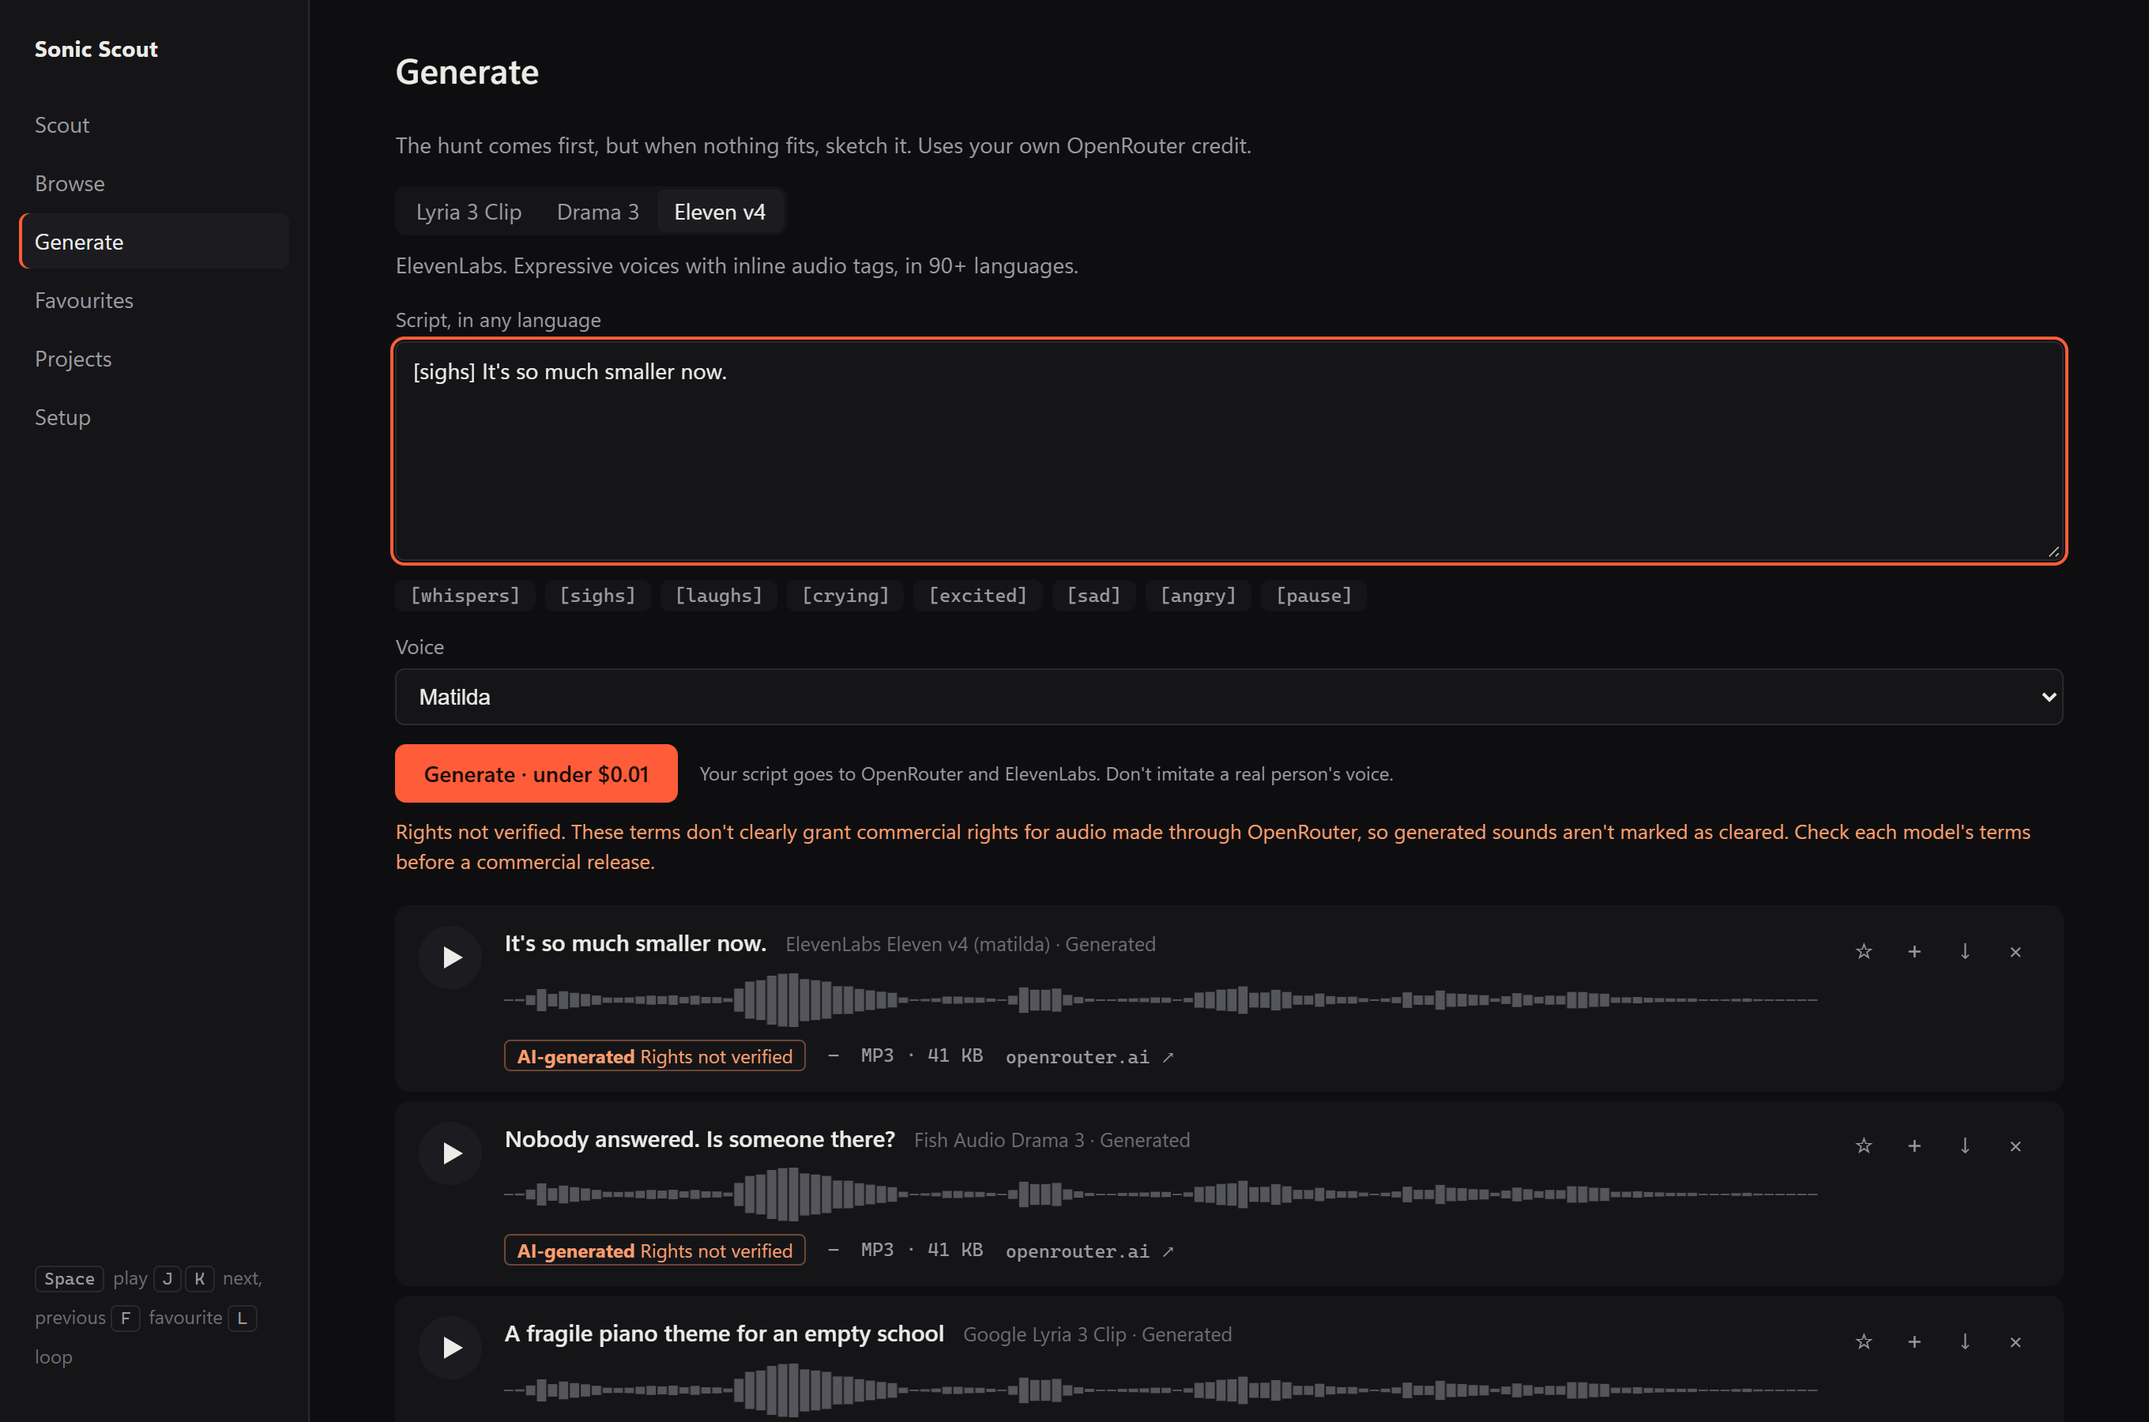
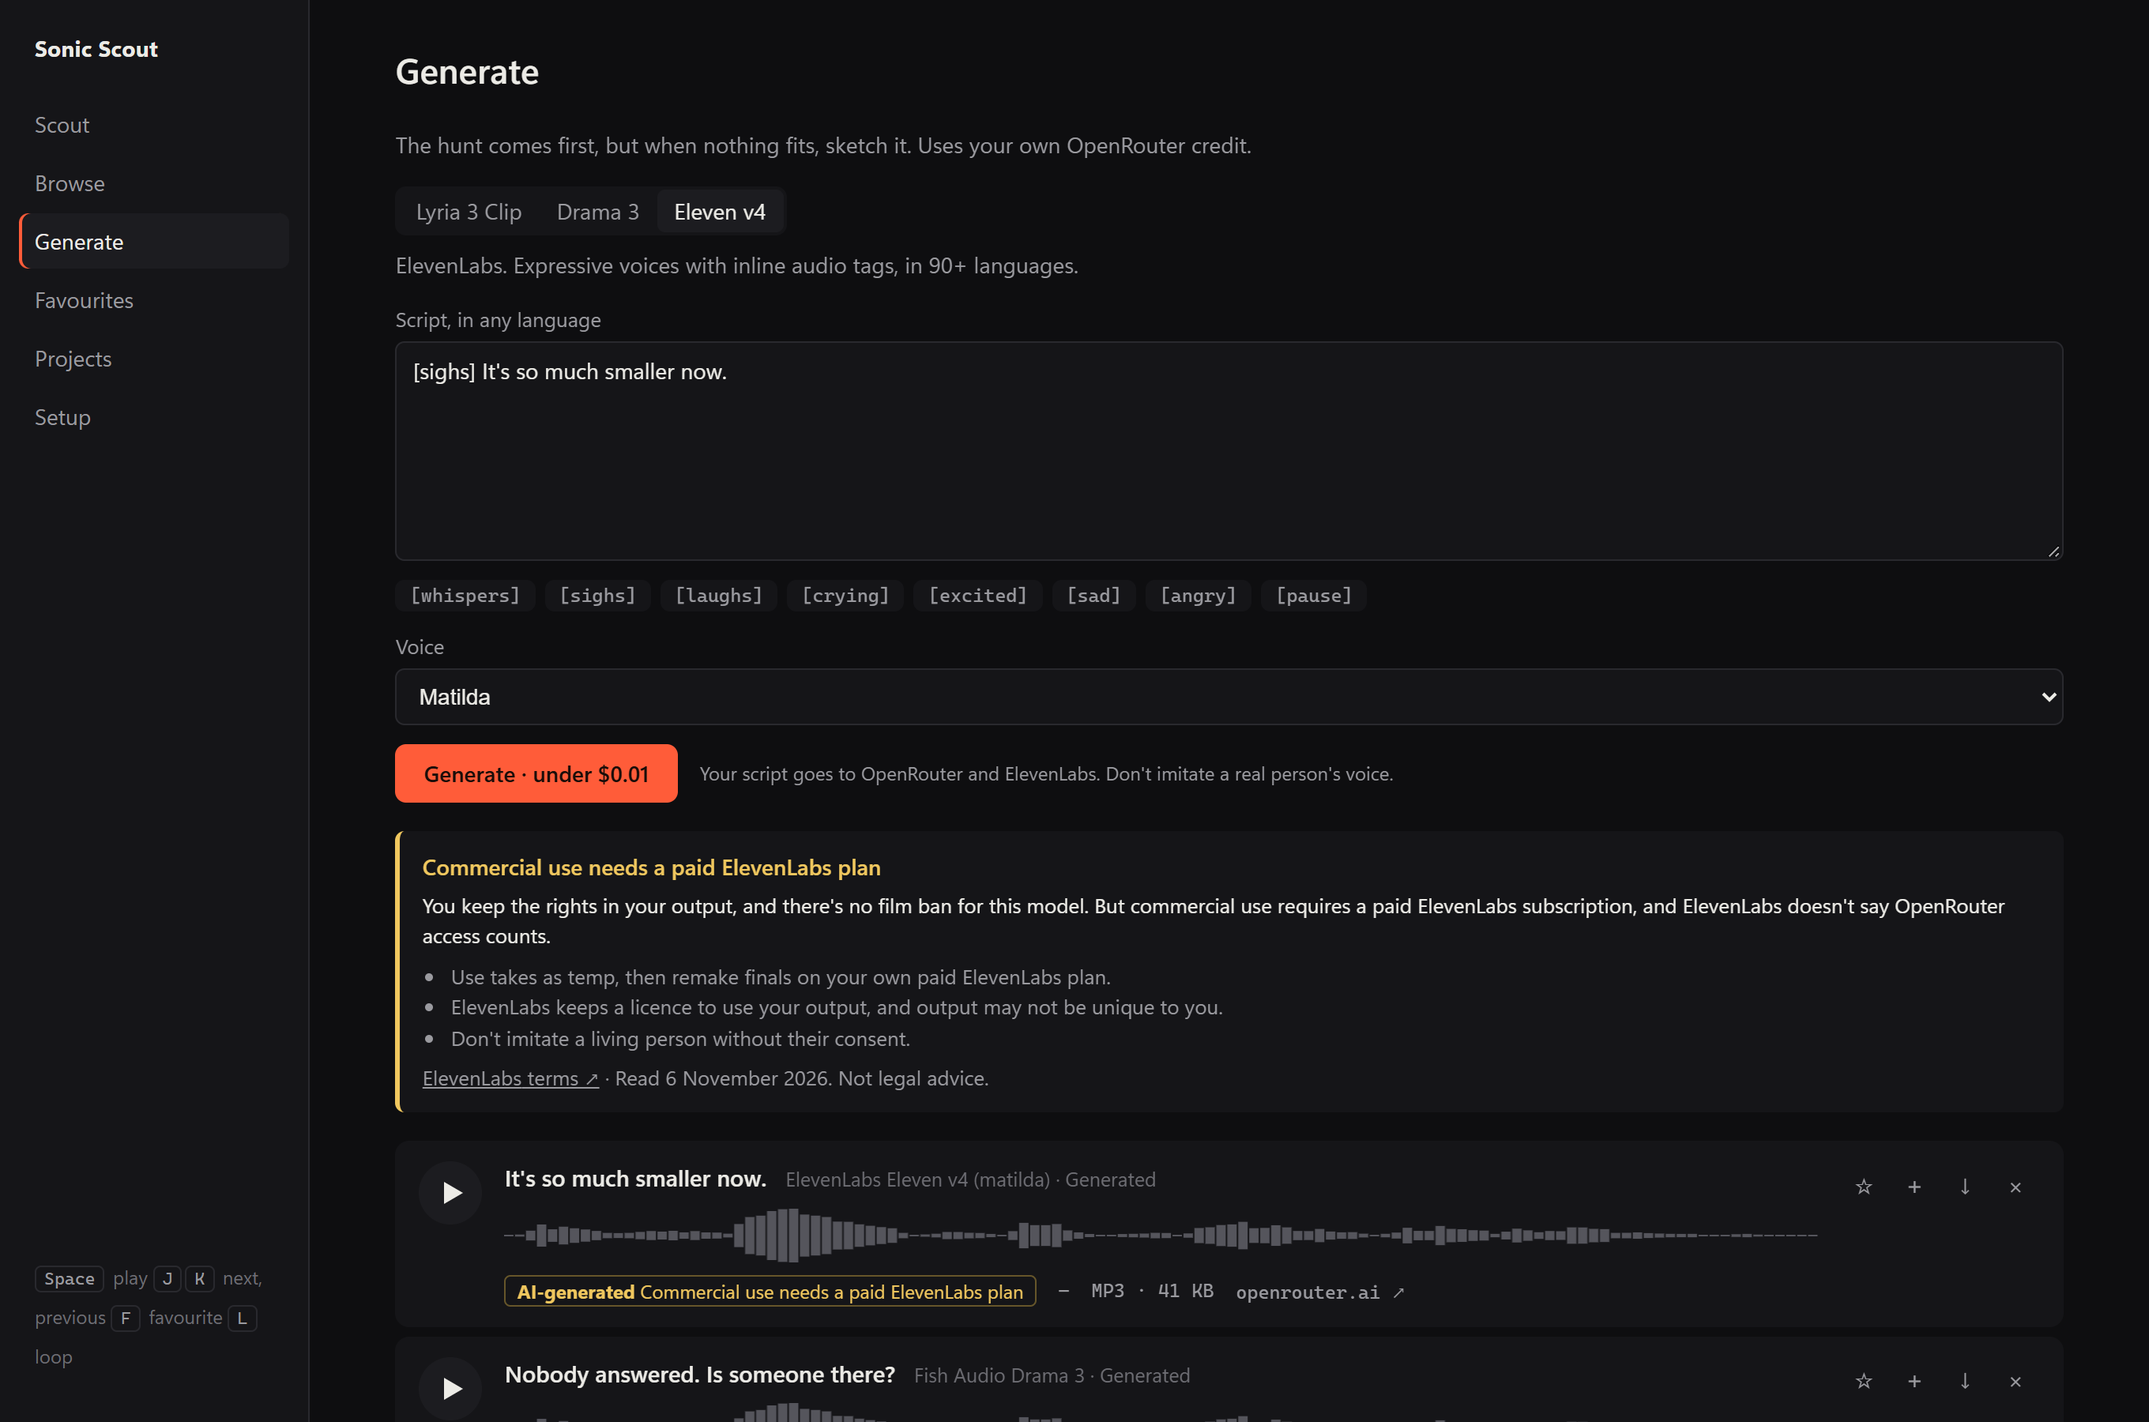
Show a clear rights verdict for each generation model
Replaces the generic notice with what each model's own terms say: Lyria 3
Clip has no commercial ban, Eleven v4 needs a paid ElevenLabs plan, and
Drama 3 is temp audio only. The verdict appears on the Generate screen, on
each take and in the inventory. Takes still never count as cleared.

diff --git a/shared/generate.ts b/shared/generate.ts
@@ -11,6 +11,19 @@ export const ELEVEN_VOICES = [
 
 export type ElevenVoice = (typeof ELEVEN_VOICES)[number];
 
+/** What each model's own terms say. Reviewed by hand, so update RIGHTS_CHECKED when they are read again. */
+export const RIGHTS_CHECKED = "6 November 2026";
+
+export interface GeneratedRights {
+  /** The answer, in a few words. */
+  verdict: string;
+  /** "caution" is usable with conditions. "temp" should stay out of a release. */
+  level: "caution" | "temp";
+  summary: string;
+  rules: string[];
+  termsUrl: string;
+}
+
 export interface GeneratorInfo {
   id: GeneratorId;
   model: string;
@@ -18,6 +31,7 @@ export interface GeneratorInfo {
   /** Who makes the model, for the record of where a sound came from. */
   maker: string;
   blurb: string;
+  rights: GeneratedRights;
 }
 
 export const GENERATORS: Record<GeneratorId, GeneratorInfo> = {
@@ -27,6 +41,18 @@ export const GENERATORS: Record<GeneratorId, GeneratorInfo> = {
     name: "Lyria 3 Clip",
     maker: "Google",
     blurb: "30-second music sketches and score ideas.",
+    rights: {
+      verdict: "Commercial use not forbidden",
+      level: "caution",
+      summary: "Google sets no commercial ban and won't claim ownership of the music. It doesn't grant a licence in words, and it may generate similar music for others.",
+      rules: [
+        "Every clip carries a SynthID watermark.",
+        "Prompts for an artist's voice or copyrighted lyrics are blocked.",
+        "Don't pass it off as human-made to deceive people.",
+        "Google says some API output may need attribution.",
+      ],
+      termsUrl: "https://aistudio.google.com/docs/terms",
+    },
   },
   "drama-3": {
     id: "drama-3",
@@ -34,6 +60,17 @@ export const GENERATORS: Record<GeneratorId, GeneratorInfo> = {
     name: "Drama 3",
     maker: "Fish Audio",
     blurb: "Directed voice performances, led by [directions] in your text.",
+    rights: {
+      verdict: "Use as temp audio only",
+      level: "temp",
+      summary: "Fish Audio licenses commercial use for its paid services, but doesn't say pay-as-you-go API use counts, and never says who owns the output.",
+      rules: [
+        "Keep takes as temp tracks unless Fish Audio confirms commercial use in writing.",
+        "Fish Audio may use your scripts and audio to train AI.",
+        "Don't present it as entirely human-made.",
+      ],
+      termsUrl: "https://fish.audio/terms/",
+    },
   },
   "eleven-v4": {
     id: "eleven-v4",
@@ -41,6 +78,17 @@ export const GENERATORS: Record<GeneratorId, GeneratorInfo> = {
     name: "Eleven v4",
     maker: "ElevenLabs",
     blurb: "Expressive voices with inline audio tags, in 90+ languages.",
+    rights: {
+      verdict: "Commercial use needs a paid ElevenLabs plan",
+      level: "caution",
+      summary: "You keep the rights in your output, and there's no film ban for this model. But commercial use requires a paid ElevenLabs subscription, and ElevenLabs doesn't say OpenRouter access counts.",
+      rules: [
+        "Use takes as temp, then remake finals on your own paid ElevenLabs plan.",
+        "ElevenLabs keeps a licence to use your output, and output may not be unique to you.",
+        "Don't imitate a living person without their consent.",
+      ],
+      termsUrl: "https://elevenlabs.io/terms-of-use",
+    },
   },
 };
 

diff --git a/src/components/SoundCard.tsx b/src/components/SoundCard.tsx
@@ -32,9 +32,9 @@ function fileLine(sound: Sound): string {
 function LicenceBadge({ sound, open, onClick }: { sound: Sound; open: boolean; onClick: () => void }) {
   const declared = sound.licenceReview === "declared";
   const generated = sound.licenceReview === "generated";
-  const tone = sound.licenceReview === "unreviewed" || generated ? "warn" : declared ? "declared" : sound.licence.attributionRequired ? "credit" : "free";
+  const tone = sound.licenceReview === "unreviewed" || sound.rights?.level === "temp" ? "warn" : generated ? "credit" : declared ? "declared" : sound.licence.attributionRequired ? "credit" : "free";
   const credit = sound.licence.attributionRequired ? "credit required" : "no credit";
-  const text = generated ? "Rights not verified" : `${declared ? "Your declaration" : "Commercial OK"} · ${credit}`;
+  const text = generated ? sound.rights?.verdict ?? "See the model's terms" : `${declared ? "Your declaration" : "Commercial OK"} · ${credit}`;
   return (
     <button className={`licence ${tone}`} aria-expanded={open} onClick={onClick}>
       <strong>{sound.licence.label}</strong> {text}
@@ -55,7 +55,7 @@ function LicenceDetails({ sound }: { sound: Sound }) {
       )}
       {sound.licenceReview === "generated" && (
         <p className="caution">
-          Made with AI, so no licence applies. Sonic Scout couldn't confirm commercial rights for audio made through OpenRouter. Check this model's terms before a commercial release.
+          {sound.rights?.summary}
         </p>
       )}
       {sound.licenceReview === "declared" && (

diff --git a/tests/generate.test.ts b/tests/generate.test.ts
@@ -200,6 +200,15 @@ describe("studio", () => {
     expect(JSON.parse(text).providers).toEqual([]);
   });
 
+  it("gives every model its own verdict from its own terms", async () => {
+    vi.stubGlobal("fetch", vi.fn(async () => speech()));
+    const fish = await studio.generate({ generator: "drama-3", text: "Hello" });
+    expect(fish.rights).toMatchObject({ verdict: "Use as temp audio only", level: "temp" });
+    expect(fish.licence.url).toBe("https://fish.audio/terms/");
+    const eleven = await studio.generate({ generator: "eleven-v4", text: "Hello", voice: "george" });
+    expect(eleven.rights?.level).toBe("caution");
+  });
+
   it("never calls a generated sound cleared, but lets it be saved", async () => {
     vi.stubGlobal("fetch", vi.fn(async () => speech()));
     const sound = await studio.generate({ generator: "eleven-v4", text: "Hello", voice: "george" });
@@ -220,8 +229,8 @@ describe("studio", () => {
     });
     expect(readFileSync(record.path).equals(MP3)).toBe(true);
     const inventory = readFileSync(join(root, "out", "Unsorted", "sonic-scout-inventory.csv"), "utf8");
-    expect(inventory).toContain("AI-generated, rights not verified");
-    expect(inventory).toContain("not verified");
+    expect(inventory).toContain("Commercial use needs a paid ElevenLabs plan");
+    expect(inventory).toContain("https://elevenlabs.io/terms-of-use");
     expect(inventory).toContain("prompt: Hello there");
     expect(inventory).toContain("gen-9");
   });

diff --git a/server/generate/studio.ts b/server/generate/studio.ts
@@ -57,7 +57,7 @@ export class Studio {
       live: true,
       originals: () => "Saved as the model returned them",
       disabledReason: () => (this.apiKey ? null : "Add OPENROUTER_API_KEY to .env."),
-      // Rights aren't verified, so these never appear in results labelled as cleared.
+      // Search only shows sounds with a licence, and these have none.
       search: async () => [],
       getById: async (id) => {
         const generation = this.find(id);
@@ -140,7 +140,7 @@ export class Studio {
   }
 
   sound(generation: Generation): Sound {
-    const { model, name, maker } = GENERATORS[generation.generator];
+    const { model, name, maker, rights } = GENERATORS[generation.generator];
     const sourcePageUrl = `https://openrouter.ai/${model}`;
     const slug = generation.title.toLowerCase().replace(/[^\p{L}\p{N}]+/gu, "-").replace(/^-|-$/g, "").slice(0, 40);
     return {
@@ -167,7 +167,8 @@ export class Studio {
         sampleRate: null,
         bitDepth: null,
       },
-      licence: generatedLicence({ model, generationId: generation.generationId, createdAt: generation.createdAt, sourcePageUrl }),
+      licence: generatedLicence({ model, generationId: generation.generationId, createdAt: generation.createdAt, sourcePageUrl, termsUrl: rights.termsUrl }),
+      rights,
       licenceReview: "generated",
       attribution: null,
     };

diff --git a/src/components/GenerateView.tsx b/src/components/GenerateView.tsx
@@ -4,6 +4,7 @@ import {
   GENERATORS,
   MAX_IMAGE_BYTES,
   MAX_SPEECH_CHARS,
+  RIGHTS_CHECKED,
   estimateCost,
   formatCost,
   lyriaPrompt,
@@ -237,10 +238,12 @@ export function GenerateView({ status }: { status: AppStatus | null }) {
 
       {error && <p className="error" role="alert">{error}</p>}
 
-      <p className="note">
-        Rights not verified. The terms we checked don't clearly grant commercial rights for audio made through OpenRouter, so generated
-        sounds aren't marked as cleared. Check each model's terms before a commercial release.
-      </p>
+      <section className={`rights${info.rights.level === "temp" ? " temp" : ""}`} aria-label={`Rights for ${info.name}`}>
+        <h2>{info.rights.verdict}</h2>
+        <p>{info.rights.summary}</p>
+        <ul>{info.rights.rules.map((rule) => <li key={rule}>{rule}</li>)}</ul>
+        <p className="hint"><a href={info.rights.termsUrl} target="_blank" rel="noreferrer">{info.maker} terms ↗</a> · Read {RIGHTS_CHECKED}. Not legal advice.</p>
+      </section>
 
       {sounds.length > 0 && (
         <div className="results">

diff --git a/server/licence/classify.ts b/server/licence/classify.ts
@@ -201,14 +201,14 @@ export function isCleared(licence: LicenceInfo, policy: LicencePolicy): boolean 
   return licence.code !== "generated" && refusalReason(licence, policy) === null;
 }
 
-/** Records how a generated sound was made. It claims no rights, because no terms clearly grant them. */
-export function generatedLicence(args: { model: string; generationId: string | null; createdAt: string; sourcePageUrl: string }): LicenceInfo {
+/** Records how a generated sound was made. No licence applies, so what it may be used for comes from the model's terms. */
+export function generatedLicence(args: { model: string; generationId: string | null; createdAt: string; sourcePageUrl: string; termsUrl: string }): LicenceInfo {
   const terms = TERMS.generated;
   return {
     code: "generated",
     label: terms.label,
     version: null,
-    url: null,
+    url: args.termsUrl,
     commercialUse: terms.commercialUse,
     attributionRequired: terms.attributionRequired,
     shareAlike: terms.shareAlike,

diff --git a/server/download/inventory.ts b/server/download/inventory.ts
@@ -13,7 +13,7 @@ const REVIEW_LABELS: Record<Sound["licenceReview"], string> = {
   community: "community reviewed library",
   unreviewed: "unreviewed uploader claim",
   declared: "declared by you for this folder",
-  generated: "AI-generated, rights not verified",
+  generated: "AI-generated, see the model's terms",
 };
 
 export function csvCell(value: string | number | boolean | null | undefined): string {
@@ -48,7 +48,7 @@ export function inventoryRow(args: {
     duration_sec: sound.durationSec === null ? null : Number(sound.durationSec.toFixed(2)),
     licence: sound.licence.label,
     licence_url: sound.licence.url,
-    commercial_use: sound.licenceReview === "generated" ? "not verified" : sound.licence.commercialUse,
+    commercial_use: sound.rights?.verdict ?? sound.licence.commercialUse,
     attribution_required: sound.licence.attributionRequired,
     attribution_text: sound.attribution,
     licence_review: REVIEW_LABELS[sound.licenceReview],

diff --git a/src/styles.css b/src/styles.css
@@ -228,3 +228,9 @@ input[type="range"] { width: 90px; accent-color: var(--accent); }
 .generate-submit { display: flex; flex-wrap: wrap; gap: 14px; align-items: center; }
 .generate-submit .hint { font-size: 12px; }
 .generate ~ .results { margin-top: 18px; }
+.rights { margin-top: 18px; padding: 12px 14px; background: var(--panel); border-left: 3px solid var(--credit); border-radius: 6px; font-size: 13px; }
+.rights.temp { border-left-color: var(--warn); }
+.rights h2 { margin-bottom: 4px; font-size: 14px; font-weight: 600; color: var(--credit); }
+.rights.temp h2 { color: var(--warn); }
+.rights ul { margin: 6px 0; padding-left: 18px; color: var(--muted); }
+.generate ~ .rights ~ .results { margin-top: 18px; }

diff --git a/shared/types.ts b/shared/types.ts
@@ -1,4 +1,4 @@
-import type { GeneratorId } from "./generate";
+import type { GeneratedRights, GeneratorId } from "./generate";
 
 export type LicenceCode =
   | "cc0"
@@ -74,6 +74,8 @@ export interface Sound {
   licence: LicenceInfo;
   /** Who stands behind the licence: a reviewed library, only the uploader, or the user for their own folder. */
   licenceReview: "community" | "unreviewed" | "declared" | "generated";
+  /** What the model's own terms allow. Only generated sounds have this. */
+  rights?: GeneratedRights;
   /** Ready-to-paste credit line. Null when the licence requires none. */
   attribution: string | null;
 }

diff --git a/README.md b/README.md
@@ -183,7 +183,17 @@ When the libraries don't have it, sketch it. Add `OPENROUTER_API_KEY` to `.env`,
 - 🔇 Generated sounds never appear in search, because search only shows cleared sounds.
 - 🎤 Don't imitate a real person's voice. Sonic Scout has no voice cloning, and the providers forbid doing this without consent.
 
-> ⚠ **Rights are not verified.** Generated audio is labelled **AI-generated, rights not verified**, in the app and in the inventory, and it is never marked as cleared. OpenRouter's terms hand output rights to each model's own terms. ElevenLabs and Fish Audio tie commercial use to paid plans, and it isn't clear how that applies to routed access. Fish Audio's terms don't state who owns output. Check each model's terms, or ask a lawyer, before a commercial release.
+### ⚖ What you can do with a take
+
+Read from each model's own terms on 6 November 2026. This isn't legal advice, and no licence applies to AI output, so takes never count as cleared.
+
+| Model | Verdict | Why | Rules |
+| --- | --- | --- | --- |
+| 🎵 Lyria 3 Clip | 🟡 **Commercial use not forbidden** | [Google](https://aistudio.google.com/docs/terms) sets no commercial ban and "won't claim ownership". It grants no licence in words, and may generate similar music for others. | SynthID watermark on every clip. Artist voices and copyrighted lyrics are blocked. Don't deceive people about its origin. Some API output may need attribution. |
+| 🗣 Eleven v4 | 🟡 **Needs a paid ElevenLabs plan** | [ElevenLabs](https://elevenlabs.io/terms-of-use) says "you retain all rights" in your output and has no film ban for this model. Commercial use requires a paid subscription, and it doesn't say OpenRouter access counts. | Use as temp, then remake finals on your own paid plan. ElevenLabs keeps a licence to your output, which may not be unique. No imitating living people without consent. |
+| 🎭 Drama 3 | 🟠 **Temp audio only** | [Fish Audio](https://fish.audio/terms/) licenses commercial use for paid services, but doesn't say pay-as-you-go API use counts, and never says who owns output. | Keep it as a temp track unless Fish Audio confirms in writing. Fish Audio may train AI on your content. Don't present it as entirely human-made. |
+
+[OpenRouter's terms](https://openrouter.ai/terms) leave output rights to each model's terms, so these verdicts come from the model makers. Each verdict also appears on the take and in the inventory's `commercial_use` column.
 
 > 🔒 **Privacy.** Your prompts, and any picture you add, go to OpenRouter and the model's maker. Google, Fish Audio and ElevenLabs have their own rules on using that content, and some allow training on it. Don't paste anything confidential.
 
